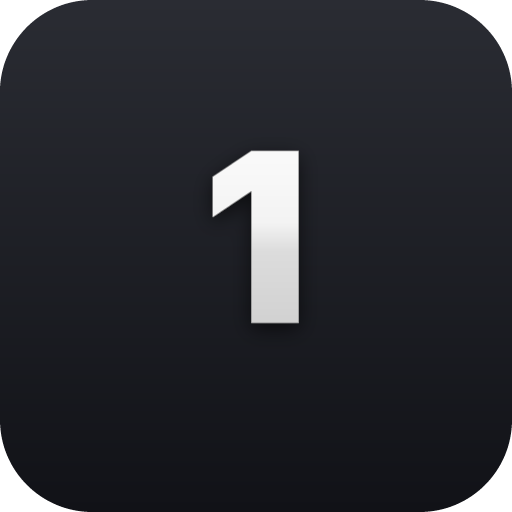
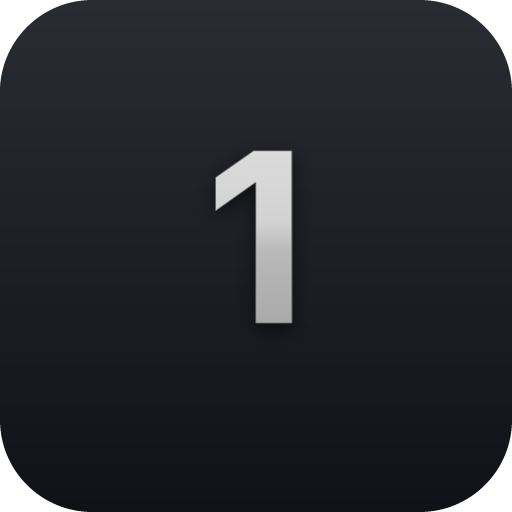
Update 5

Changed region(s): [[0.4062, 0.2812, 0.5938, 0.6562]]

diff --git a/lib/badge.js b/lib/badge.js
@@ -1,14 +1,15 @@
 // lib/badge.js
 // Builds a glossy, Netflix-Top10-style rank number and composites it onto a poster.
 // Rendering pipeline: SVG (gradient fill + drop shadow + bevel) -> resvg-js rasterizer
-// (custom Inter Black font loaded from disk, no system fonts needed) -> sharp composite.
+// (custom Inter Bold font loaded from disk, no system fonts needed) -> sharp composite.
 
 const path = require('path');
 const sharp = require('sharp');
 const { Resvg } = require('@resvg/resvg-js');
 
-const FONT_PATH = path.join(__dirname, '..', 'assets', 'Inter-Black.ttf');
+const FONT_PATH = path.join(__dirname, '..', 'assets', 'Inter-Bold.ttf');
 const FONT_FAMILY = 'Inter';
+const FONT_WEIGHT = '700';
 
 /**
  * Build the SVG markup for a single rank badge.
@@ -20,25 +21,26 @@ function badgeSvg(rank, posterW, posterH) {
 
   // Same font size regardless of digit count, so "4" and "20" carry the same
   // visual weight, Inter's tabular figures just make "20" a bit wider, not smaller.
-  const fontSize = posterW * 0.24;
+  const fontSize = posterW * 0.30;
 
   // Anchor point: small inset from the top-left corner, matching the reference image
   // (the number sits just inside the poster, not bled off the edge). Same anchor for
-  // every rank so digit count doesn't shift the badge's position.
+  // every rank so digit count doesn't shift the badge's position. y is nudged down
+  // from the previous smaller size to keep the same top margin now that the glyph is bigger.
   const x = posterW * 0.07;
-  const y = posterH * 0.205;
+  const y = posterH * 0.234;
 
   return `
 <svg width="${posterW}" height="${posterH}" viewBox="0 0 ${posterW} ${posterH}" xmlns="http://www.w3.org/2000/svg">
   <defs>
     <linearGradient id="glossFill" x1="0" y1="0" x2="0" y2="1">
-      <stop offset="0%" stop-color="#ffffff"/>
-      <stop offset="45%" stop-color="#f3f3f3"/>
-      <stop offset="55%" stop-color="#dcdcdc"/>
-      <stop offset="100%" stop-color="#c9c9c9"/>
+      <stop offset="0%" stop-color="#e2e2e2"/>
+      <stop offset="45%" stop-color="#d2d2d2"/>
+      <stop offset="55%" stop-color="#b9b9b9"/>
+      <stop offset="100%" stop-color="#9e9e9e"/>
     </linearGradient>
     <linearGradient id="rimLight" x1="0" y1="0" x2="0" y2="1">
-      <stop offset="0%" stop-color="#ffffff" stop-opacity="0.9"/>
+      <stop offset="0%" stop-color="#ffffff" stop-opacity="0.55"/>
       <stop offset="100%" stop-color="#ffffff" stop-opacity="0"/>
     </linearGradient>
     <filter id="dropShadow" x="-60%" y="-60%" width="220%" height="220%">
@@ -49,16 +51,16 @@ function badgeSvg(rank, posterW, posterH) {
   <g filter="url(#dropShadow)">
     <text x="${x}" y="${y}"
           font-family="${FONT_FAMILY}"
-          font-weight="900"
+          font-weight="${FONT_WEIGHT}"
           font-size="${fontSize}"
           fill="url(#glossFill)"
-          stroke="#8f8f8f"
+          stroke="#767676"
           stroke-width="${posterW * 0.0015}"
           stroke-linejoin="round"
           paint-order="stroke fill">${text}</text>
     <text x="${x}" y="${y}"
           font-family="${FONT_FAMILY}"
-          font-weight="900"
+          font-weight="${FONT_WEIGHT}"
           font-size="${fontSize}"
           fill="none"
           stroke="url(#rimLight)"

diff --git a/scripts/generate-icon.js b/scripts/generate-icon.js
@@ -1,16 +1,17 @@
 // scripts/generate-icon.js
 // One-off build step: renders the addon's logo/icon as a static PNG, using the
-// same glossy Inter Black + gradient + drop-shadow look as the rank badges, so
+// same glossy Inter Bold + gradient + drop-shadow look as the rank badges, so
 // the addon has a consistent identity in Stremio's addon list. Run once with
 // `node scripts/generate-icon.js`, the output (icon.png at the repo root) is
 // committed like any other static asset. No runtime cost, nothing to maintain.
+// Keep this in sync with lib/badge.js if you tweak the badge's font/weight/gradient.
 
 const fs = require('fs');
 const path = require('path');
 const sharp = require('sharp');
 const { Resvg } = require('@resvg/resvg-js');
 
-const FONT_PATH = path.join(__dirname, '..', 'assets', 'Inter-Black.ttf');
+const FONT_PATH = path.join(__dirname, '..', 'assets', 'Inter-Bold.ttf');
 const SIZE = 512;
 const OUT_PATH = path.join(__dirname, '..', 'icon.png');
 
@@ -22,10 +23,10 @@ const svg = `
       <stop offset="100%" stop-color="#111217"/>
     </linearGradient>
     <linearGradient id="glossFill" x1="0" y1="0" x2="0" y2="1">
-      <stop offset="0%" stop-color="#ffffff"/>
-      <stop offset="45%" stop-color="#f3f3f3"/>
-      <stop offset="55%" stop-color="#dcdcdc"/>
-      <stop offset="100%" stop-color="#c9c9c9"/>
+      <stop offset="0%" stop-color="#e2e2e2"/>
+      <stop offset="45%" stop-color="#d2d2d2"/>
+      <stop offset="55%" stop-color="#b9b9b9"/>
+      <stop offset="100%" stop-color="#9e9e9e"/>
     </linearGradient>
     <filter id="dropShadow" x="-60%" y="-60%" width="220%" height="220%">
       <feDropShadow dx="0" dy="${SIZE * 0.012}" stdDeviation="${SIZE * 0.018}" flood-color="#000000" flood-opacity="0.6"/>
@@ -36,10 +37,10 @@ const svg = `
     <text x="50%" y="63%"
           text-anchor="middle"
           font-family="Inter"
-          font-weight="900"
+          font-weight="700"
           font-size="${SIZE * 0.46}"
           fill="url(#glossFill)"
-          stroke="#8f8f8f"
+          stroke="#767676"
           stroke-width="${SIZE * 0.003}"
           stroke-linejoin="round"
           paint-order="stroke fill">1</text>
